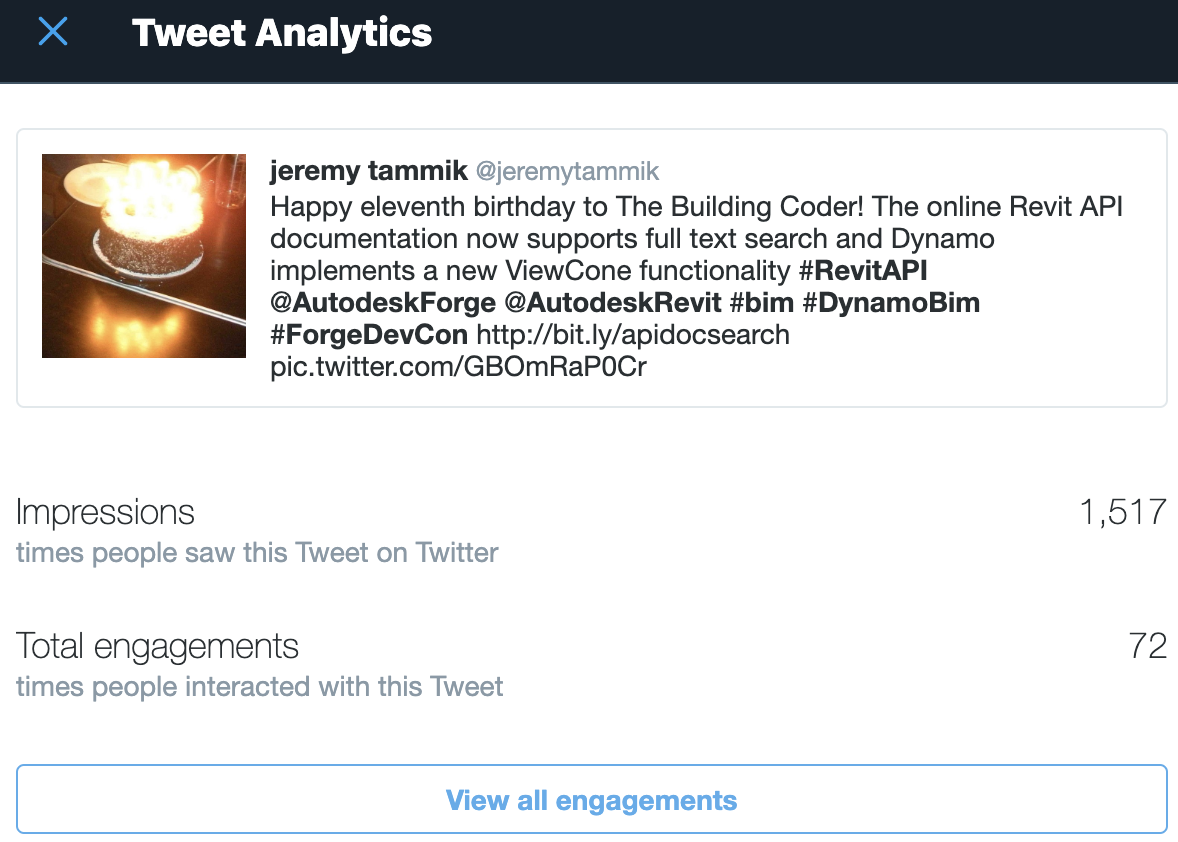
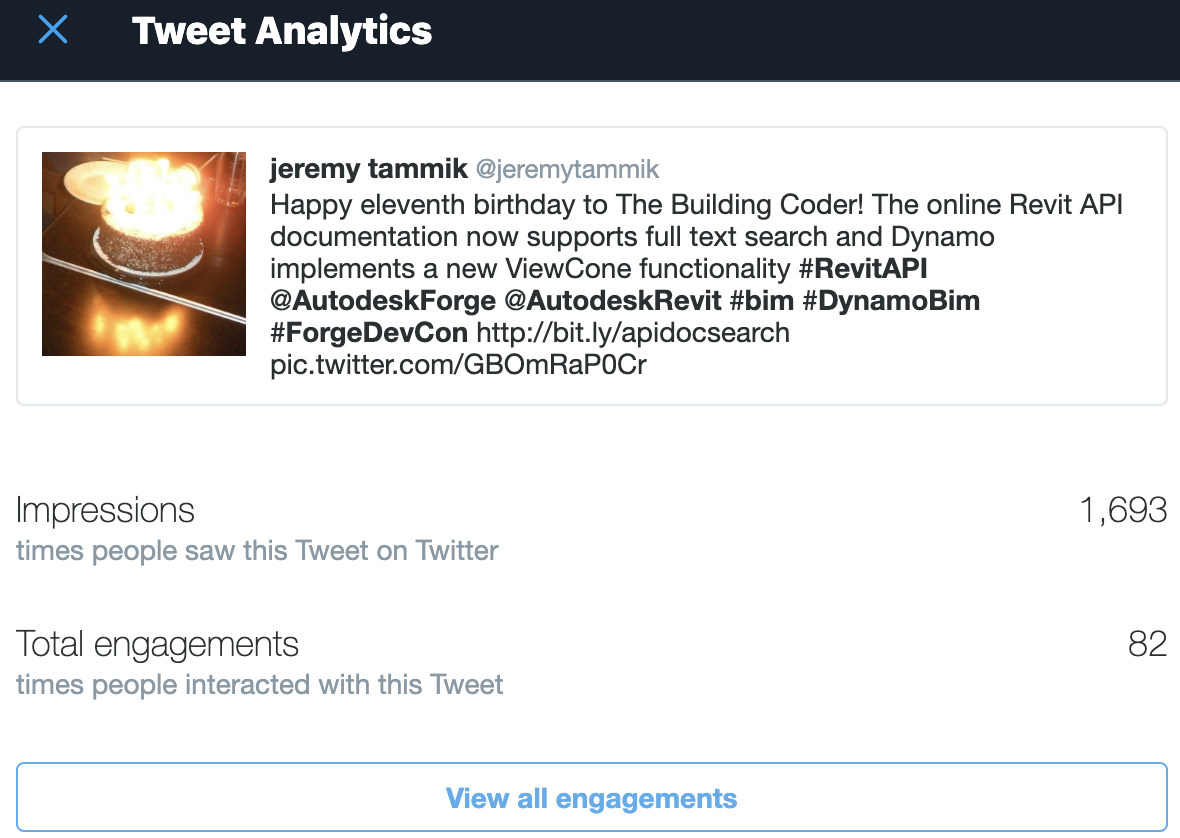
editing 1772_autorun.md

diff --git a/a/1772_autorun.html b/a/1772_autorun.html
@@ -8,7 +8,7 @@
 twitter:
 
 
- #RevitAPI @AutodeskForge @AutodeskRevit #bim #DynamoBim #ForgeDevCon 
+Auto-executing an external command in the #RevitAPI @AutodeskForge @AutodeskRevit #bim #DynamoBim #ForgeDevCon 
 
 
 linkedin:
@@ -19,26 +19,26 @@ the [Revit API discussion forum](http://forums.autodesk.com/t5/revit-api-forum/b
 
 <p style="font-size: 80%; font-style:italic"></p>
 
-Dynamo Zero Touch CS#Node Element Wrapper
-
 -->
 
-<h3>Autorun an External Command</h3>
-<p>I had an extensive discussion on automatically driving Revit from outside to execute a simple functionality implemented by an external command with no user input.</p>
-<p>The Building Coder also received numerous congratulations on its eleventh birthday yesterday:</p>
+<h3>Auto-Executing an External Command</h3>
+<p>I had an extensive discussion on automatically driving Revit from outside to auto-execute a simple functionality with no user input, originally implemented by an external command.</p>
+<p>Also, a big thank you to all for the numerous congratulations on
+the <a href="https://thebuildingcoder.typepad.com/blog/2019/08/11-years-and-revit-api-docs-full-text-search.html#2">announcement yesterday of The Building Coder's eleventh birthday</a>:</p>
 <ul>
-<li><a href="#2">Autorun an External Command</a></li>
-<li><a href="#3">Eleventh Birthday Congratulations</a></li>
+<li><a href="#2">Auto-executing an external command</a></li>
+<li><a href="#3">Eleventh birthday congratulations</a></li>
 </ul>
 <h4><a name="2"></a> Autorun an External Command</h4>
-<p>[A] Easy to solve, various approaches possible.</p>
+<p><strong>Question:</strong> I have an external command that I would prefer to execute automatically to avoid the need to manually start up Revit, open the RVT model, and launch the command. How can this be achieved?</p>
+<p><strong>Answer:</strong> Easy to solve, various approaches possible.</p>
 <p>I would suggest starting out by trying to use a journal file as described here:</p>
 <p>http://thebuildingcoder.typepad.com/blog/2010/07/ifc-import-and-conversion-journal-script.html</p>
 <p>Another simple approach is to implement an event handler for the DocumentOpened event and automatically process the document immediately as soon as it is opened.</p>
 <p>Shall I put together an add-in skeleton that executes automatically as soon as a document is loaded? then you can wire that up with the code you wish to execute.</p>
-<p>[Q] I don't fully understand what " add-in skeleton that executes automatically as soon as a document is loaded" means.</p>
+<p><strong>Question:</strong> I don't fully understand what " add-in skeleton that executes automatically as soon as a document is loaded" means.</p>
 <p>But I understand the suggested solution. So if it is a step in the right direction - go right ahead</p>
-<p>[A] in order for me to be able to start working on this, i would need a description of the top-level user interaction, the top-level Revit add-in API architecture , and the top-level RVT model context of the functionality you wish to run.</p>
+<p><strong>Answer:</strong> in order for me to be able to start working on this, i would need a description of the top-level user interaction, the top-level Revit add-in API architecture , and the top-level RVT model context of the functionality you wish to run.</p>
 <p>Is it a single external command?
 Does the user push one single button to run it, and nothing else?
 Does it need to be run on all RVT files in a given directory?
@@ -69,7 +69,7 @@ Is any user input at all required?</p>
 <p>is that enough information?</p>
 <p>I don't understand how this method can work on more "complicated" scenarios, e.g. it failed to load some of the links, the configuration file was corrupted (we load some JSON config file) or anything.</p>
 <p>Not sure about the text file, since we just take all the links from the first one.</p>
-<p>[A] Good. That is what I expected. This can easily be converted to autorun. The easiest solution is to use the manual user interface and the Revit journal file functionality like this:</p>
+<p><strong>Answer:</strong> Good. That is what I expected. This can easily be converted to autorun. The easiest solution is to use the manual user interface and the Revit journal file functionality like this:</p>
 <ul>
 <li>Rename your input file <code>X.rvt</code> to <code>input.rvt</code>.</li>
 <li>Open Revit.</li>
@@ -107,7 +107,7 @@ Is any user input at all required?</p>
 <li>Do I have any way to add conditions? E.g., verify that all linked models are loaded?</li>
 <li>What if the plugin was modified? In that case I usually need to manually press "load plugin" on the popup. Can it be automated</li>
 </ul>
-<p>[A] Good questions.</p>
+<p><strong>Answer:</strong> Good questions.</p>
 <p>Easy answer:</p>
 <p>The journal file is totally stupid. It will exactly reproduce what you did manually when it was recorded.</p>
 <p>If something goes wrong, it will behave exactly as if you were sitting there manually typing and clicking in the user interface.</p>
@@ -129,11 +129,10 @@ on <a href="https://help.autodesk.com/view/RVT/2020/ENU/?guid=Revit_API_Revit_AP
 <p>Alternatively, every time the DLL is modified, load it manually once and click 'Always load'. From then on, the message will not appear again, as long as the DLL is not modified.</p>
 <h4><a name="3"></a> Thank you for your Eleventh Birthday Congratulations</h4>
 <p>Thank you very much for the lively response and numerous congratulations on The Building Coder's eleventh birthday!</p>
-<p>96 reactions on LinkedIn alone.</p>
-<p>5 Retweets 35 Likes, 1517 impressions and 72 engagements, whatever those are on Twitter.</p>
+<p>96 LinkedIn reactions, 5 Twitter retweets, 37 likes, 1693 impressions and 82 engagements, whatever those are.</p>
 <p><a href="https://twitter.com/Gytaco/status/1164728843266957312?s=20">Adam Sheather on Twitter</a></p>
 <blockquote>
-<p>Congrats mate! You are still my go to site for Revit API problems, and the wealth of knowledge and time you put into the blog has provided unimaginable benefit for the community! Thank you!</p>
+<p>Congrats mate! You are still my go-to site for Revit API problems, and the wealth of knowledge and time you put into the blog has provided unimaginable benefit for the community! Thank you!</p>
 </blockquote>
 <p><a href="https://thebuildingcoder.typepad.com/blog/2019/08/11-years-and-revit-api-docs-full-text-search.html#comment-4588231441">Matt Taylor in a comment</a></p>
 <blockquote>
@@ -145,7 +144,7 @@ on <a href="https://help.autodesk.com/view/RVT/2020/ENU/?guid=Revit_API_Revit_AP
 </blockquote>
 <p><a href="https://www.linkedin.com/feed/update/urn:li:activity:6570246697056780288?commentUrn=urn%3Ali%3Acomment%3A%28activity%3A6570246697056780288%2C6570335510227632128%29">Philippe Leefsma on LinkedIn</a></p>
 <blockquote>
-<p>It will remain useful to Revit developers across the entire galaxy for centuries;)</p>
+<p>It will remain useful to Revit developers across the entire galaxy for centuries &nbsp; ;)</p>
 </blockquote>
 <p><center>
 <img src="img/tbc_11_twitter_engagements.png" alt="Twitter engagements" width="600">

diff --git a/a/1772_autorun.md b/a/1772_autorun.md
@@ -10,7 +10,7 @@
 twitter:
 
 
- #RevitAPI @AutodeskForge @AutodeskRevit #bim #DynamoBim #ForgeDevCon 
+Auto-executing an external command in the #RevitAPI @AutodeskForge @AutodeskRevit #bim #DynamoBim #ForgeDevCon 
 
 
 linkedin:
@@ -21,22 +21,23 @@ the [Revit API discussion forum](http://forums.autodesk.com/t5/revit-api-forum/b
 
 <p style="font-size: 80%; font-style:italic"></p>
 
-Dynamo Zero Touch CS#Node Element Wrapper
-
 -->
 
-### Autorun an External Command
+### Auto-Executing an External Command
 
-I had an extensive discussion on automatically driving Revit from outside to execute a simple functionality implemented by an external command with no user input.
+I had an extensive discussion on automatically driving Revit from outside to auto-execute a simple functionality with no user input, originally implemented by an external command.
 
-The Building Coder also received numerous congratulations on its eleventh birthday yesterday:
+Also, a big thank you to all for the numerous congratulations on
+the [announcement yesterday of The Building Coder's eleventh birthday](https://thebuildingcoder.typepad.com/blog/2019/08/11-years-and-revit-api-docs-full-text-search.html#2):
 
-- [Autorun an External Command](#2)
-- [Eleventh Birthday Congratulations](#3)
+- [Auto-executing an external command](#2)
+- [Eleventh birthday congratulations](#3)
 
-####<a name="2"></a> Autorun an External Command 
+####<a name="2"></a> Autorun an External Command
 
-[A] Easy to solve, various approaches possible.
+**Question:** I have an external command that I would prefer to execute automatically to avoid the need to manually start up Revit, open the RVT model, and launch the command. How can this be achieved?
+
+**Answer:** Easy to solve, various approaches possible.
 
 I would suggest starting out by trying to use a journal file as described here:
 
@@ -46,11 +47,11 @@ Another simple approach is to implement an event handler for the DocumentOpened 
 
 Shall I put together an add-in skeleton that executes automatically as soon as a document is loaded? then you can wire that up with the code you wish to execute.
 
-[Q] I don't fully understand what " add-in skeleton that executes automatically as soon as a document is loaded" means.
+**Question:** I don't fully understand what " add-in skeleton that executes automatically as soon as a document is loaded" means.
 
 But I understand the suggested solution. So if it is a step in the right direction - go right ahead
 
-[A] in order for me to be able to start working on this, i would need a description of the top-level user interaction, the top-level Revit add-in API architecture , and the top-level RVT model context of the functionality you wish to run.
+**Answer:** in order for me to be able to start working on this, i would need a description of the top-level user interaction, the top-level Revit add-in API architecture , and the top-level RVT model context of the functionality you wish to run.
 
 Is it a single external command?
 Does the user push one single button to run it, and nothing else?
@@ -89,7 +90,7 @@ I don't understand how this method can work on more "complicated" scenarios, e.g
 
 Not sure about the text file, since we just take all the links from the first one.
 
-[A] Good. That is what I expected. This can easily be converted to autorun. The easiest solution is to use the manual user interface and the Revit journal file functionality like this:
+**Answer:** Good. That is what I expected. This can easily be converted to autorun. The easiest solution is to use the manual user interface and the Revit journal file functionality like this:
 
 - Rename your input file `X.rvt` to `input.rvt`.
 - Open Revit.
@@ -135,7 +136,7 @@ Since Revit is not built for processing hundreds of files in batch mode, this pr
 - Do I have any way to add conditions? E.g., verify that all linked models are loaded?
 - What if the plugin was modified? In that case I usually need to manually press "load plugin" on the popup. Can it be automated
 
-[A] Good questions.
+**Answer:** Good questions.
 
 Easy answer:
 
@@ -169,14 +170,11 @@ Alternatively, every time the DLL is modified, load it manually once and click '
 
 Thank you very much for the lively response and numerous congratulations on The Building Coder's eleventh birthday!
 
-96 reactions on LinkedIn alone.
+96 LinkedIn reactions, 5 Twitter retweets, 37 likes, 1693 impressions and 82 engagements, whatever those are.
 
-5 Retweets 35 Likes, 1517 impressions and 72 engagements, whatever those are on Twitter.
-
- 
 [Adam Sheather on Twitter](https://twitter.com/Gytaco/status/1164728843266957312?s=20)
 
-> Congrats mate! You are still my go to site for Revit API problems, and the wealth of knowledge and time you put into the blog has provided unimaginable benefit for the community! Thank you!
+> Congrats mate! You are still my go-to site for Revit API problems, and the wealth of knowledge and time you put into the blog has provided unimaginable benefit for the community! Thank you!
 
 [Matt Taylor in a comment](https://thebuildingcoder.typepad.com/blog/2019/08/11-years-and-revit-api-docs-full-text-search.html#comment-4588231441)
 
@@ -188,7 +186,7 @@ Thank you very much for the lively response and numerous congratulations on The 
 
 [Philippe Leefsma on LinkedIn](https://www.linkedin.com/feed/update/urn:li:activity:6570246697056780288?commentUrn=urn%3Ali%3Acomment%3A%28activity%3A6570246697056780288%2C6570335510227632128%29)
 
-> It will remain useful to Revit developers across the entire galaxy for centuries;)
+> It will remain useful to Revit developers across the entire galaxy for centuries &nbsp; ;)
 
 <center>
 <img src="img/tbc_11_twitter_engagements.png" alt="Twitter engagements" width="600">
